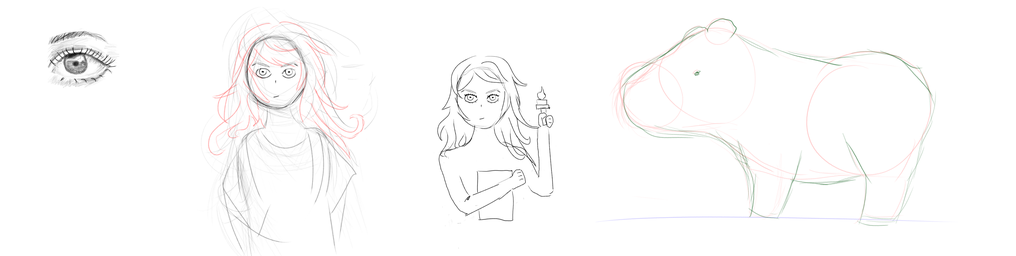
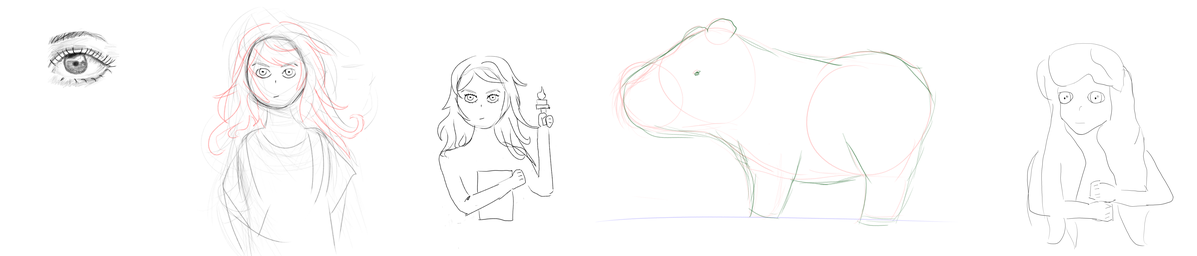
new post

diff --git a/blogs/blog5.html b/blogs/blog5.html
@@ -1,0 +1,26 @@
+<!DOCTYPE html>
+<title>Blog Post 5</title>
+<html lang="en">
+    <!--Heading-->
+    <head>
+        <script src="load.js"></script>
+        <script src="template.js"></script>
+        <script> const index = 5; </script>
+        <link rel="stylesheet" href="template.css">
+    </head>
+    <!--Body-->
+    <body>
+        <div>
+            <h1 id="subject"> 10/29/2022: After a month long hiatus, I got back to drawing again. </h1>
+            <div>
+                <img id="picA" src="imgs/005Eve0x3F.png" align="center">
+                <label for="picA" id="captionA">I drew a quick sketch</label>
+            </div>
+        </div>
+        <div>
+            <button id="prevB" onclick="load(index - 1)">Previous</button>
+            <button id="nextB" onclick="load(index + 1)">Next</button>
+            <button id="homeB" onclick="Home()">Home</button>
+        </div>
+    </body>
+</html>

diff --git a/index.html b/index.html
@@ -46,7 +46,12 @@
             <div id="Projects" hidden>
                 <h1 id="pHeadC"> Projects</h1>
                 <hr style="width: 50%; margin-left: 10px; margin-bottom: 15px;" align="left">
-                <p1 id="pText4">I'll write something here when I actually make something.</p1>
+                <div>
+                    <img src="SinoShrimpLogo.png" id="SinoShrimpLogo">
+                </div>
+                <div style="padding-top: 20px;">
+                    <p1 id="pText4">I translate sometimes when I'm bored @<a href="https://shrimp33.github.io/SinoShrimp/">SinoShrimp</a>.</p1>
+                </div>
             </div>
             <!-- Socials -->
             <div id="Socials" hidden>

diff --git a/script.js b/script.js
@@ -10,10 +10,11 @@ function slide(){
 setTimeout(slide, 1000);  // I DON'T KNOW WHY, BUT IF THERE'S NO TIMEOUT, IT DOESN'T WORK
 
 function imgtoidb(posx) {
-    var truex = posx % 1016
+    var truex = posx % 1197
     if (truex < 180) return 1;
     if (truex < 565) return 2;
     if (truex < 1016) return 3;
+    if (truex < 1197) return 5;
 }
 
 $(document).ready(function(event) {

diff --git a/blogs/load.js b/blogs/load.js
@@ -1,4 +1,4 @@
-const max = 4;
+const max = 5;
 function getmax() {
     return max;
 }

diff --git a/util/merge.py b/util/merge.py
@@ -9,8 +9,8 @@ INPUT_DIR = 'blogs/imgs'
 # Storage
 resized = []
 widths = []
-# Get all files in the directory if ending with .png
-files = [f for f in os.listdir(INPUT_DIR) if f.endswith('.' + IMAGE_FORMAT)]
+# Get all files in the directory if ending with .png and starts with a number in 000 format
+files = [f for f in os.listdir(INPUT_DIR) if f.endswith('.png') and f[0:3].isdigit()]
 # Resize all images to 256 height while keeping aspect ratio
 for image in files:
     img = Image.open(os.path.join(INPUT_DIR, image))
